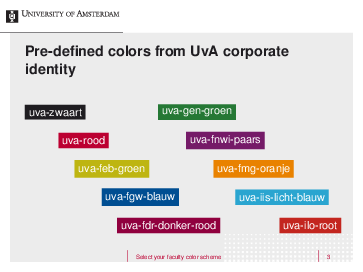
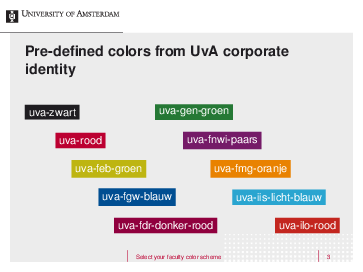
Fix typos in Dutch color names

diff --git a/example.tex b/example.tex
@@ -34,7 +34,7 @@
 % 	maincolor: Select which main color to use for title page and as highlight color.
 %		Possible values are: Any color definition. Default: uva-rood
 % 		This theme pre-defines colors from the University of Amsterdam corporate identity:
-% 			uva-zwaart	(general UvA Black)
+% 			uva-zwart	(general UvA Black)
 % 			uva-rood	(general UvA Red)
 % 			uva-feb-groen	(Green for Faculty of Economics and Business)
 % 			uva-fgw-blauw	(Blue for Faculty of Humanities)
@@ -43,7 +43,7 @@
 % 			uva-fnwi-paars	(Purple for Faculty of Science)
 % 			uva-fmg-oranje	(Orange for Faculty of Social and Behavioural Sciences)
 % 			uva-iis-licht-blauw	(Light Blue for Institute of Interdisciplinary Studies)
-% 			uva-ilo-root	(Red for Interfacultaire Lerarenopleidingen)
+% 			uva-ilo-rood	(Red for Interfacultaire Lerarenopleidingen)
 % 		Please refer to the following page for usage instructions regarding the
 % 		corporate identity colors: https://extranet.uva.nl/en/a-z/content/corporate-communication/corporate-identity-elements/colour/colour-kopie.html
 \usetheme[logo=ENG, maincolor=uva-rood]{UniversityOfAmsterdam}
@@ -74,7 +74,7 @@
 	\begin{tikzpicture}
 		\edef\posX{0}
 		\edef\posY{11}
-		\foreach \color in {uva-zwaart, uva-rood, uva-feb-groen, uva-fgw-blauw, uva-fdr-donker-rood, uva-gen-groen, uva-fnwi-paars, uva-fmg-oranje, uva-iis-licht-blauw, uva-ilo-root} {
+		\foreach \color in {uva-zwart, uva-rood, uva-feb-groen, uva-fgw-blauw, uva-fdr-donker-rood, uva-gen-groen, uva-fnwi-paars, uva-fmg-oranje, uva-iis-licht-blauw, uva-ilo-rood} {
 			\node [fill=\color, text=white] (\color) at (\posX, \posY) {\color};
 
 			\pgfmathparse{\posX+1}

diff --git a/README.md b/README.md
@@ -47,7 +47,7 @@ The corporate identity of the University of Amsterdam
 [defines some colors](https://extranet.uva.nl/en/a-z/content/corporate-communication/corporate-identity-elements/colour/colour-kopie.html).
 These colors are available when the template is loaded:
 
- * `uva-zwaart`: general UvA Black
+ * `uva-zwart`: general UvA Black
  * `uva-rood`: general UvA Red
  * `uva-feb-groen`: Green for Faculty of Economics and Business
  * `uva-fgw-blauw`: Blue for Faculty of Humanities
@@ -56,7 +56,7 @@ These colors are available when the template is loaded:
  * `uva-fnwi-paars`: Purple for Faculty of Science
  * `uva-fmg-oranje`: Orange for Faculty of Social and Behavioural Sciences
  * `uva-iis-licht-blauw`: Light Blue for Institute of Interdisciplinary Studies
- * `uva-ilo-root`: Red for Interfacultaire Lerarenopleidingen
+ * `uva-ilo-rood`: Red for Interfacultaire Lerarenopleidingen
 
 When used together with the `logo` option, these colors can help creating
 a presentation which looks very similar to UvA's PowerPoint template.
